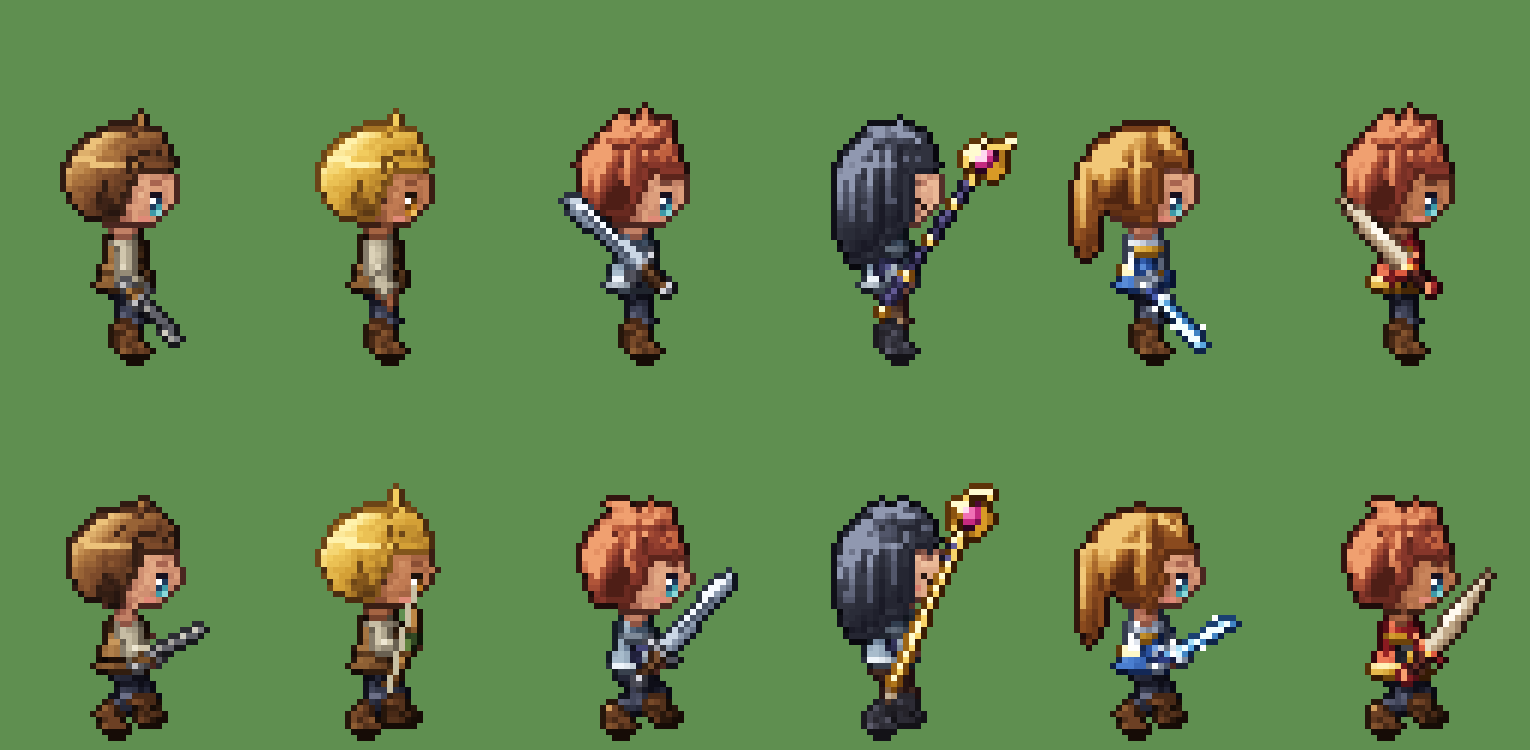
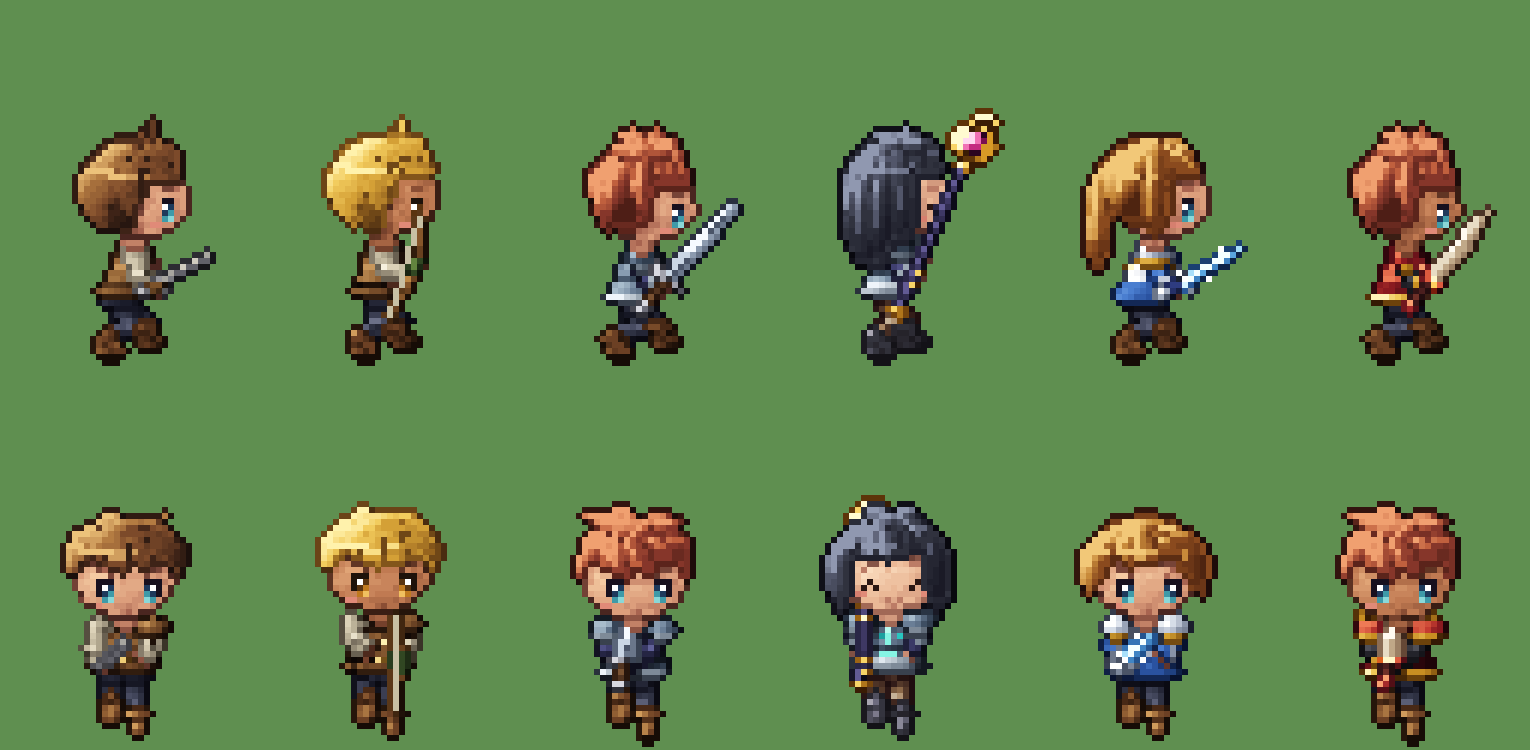
Lean the whole upper body in combat stances
- pose.torsoX(r): torso centre line tilts with the lean (neck forward, hips
  back) so head, shoulders, chest and clothing details move together
- deeper crouch, wider feet and stronger lean per weapon stance

Claude-Session: https://claude.ai/code/session_01JLEecThURYQTCHEQgBW1W6

diff --git a/hd2d-walk-demo/src/character/rig.ts b/hd2d-walk-demo/src/character/rig.ts
@@ -142,6 +142,11 @@ export interface Pose {
   neckUp: number;
   /** 躯干半宽（随朝向变窄） */
   torsoHalf: number;
+  /**
+   * 躯干中线在颈下 r 个单位处的横坐标。前倾时整个上身（颈、肩、胸）一起往前倒，
+   * 髋部略往后坐，躯干是一条斜线而不是直的；画躯干、衣服细节都用它代替 CX。
+   */
+  torsoX(r: number): number;
   armR: Arm;
   armL: Arm;
   /** 手部锚点（= armR.hand / armL.hand），武器按它绘制 */
@@ -222,28 +227,28 @@ interface Stance {
 const STANCES: Record<Hold | 'none', Stance> = {
   // 单手剑：侧身，剑尖斜指前上方，左手护在胸前
   down: {
-    front: 5, back: 4.2, crouch: 2,
-    key: { R: [-6, 22, 6], L: [5.5, 24, 4.5], dir: [0.15, 0.45, 0.88], lean: 0.9, bob: 0, step: 0 },
+    front: 5.6, back: 4.8, crouch: 2.8,
+    key: { R: [-6, 22, 6], L: [5.5, 24, 4.5], dir: [0.15, 0.45, 0.88], lean: 2.4, bob: 0, step: 0 },
   },
   // 双手大剑：最宽最低的马步，双手握剑斜架在身前
   shoulder: {
-    front: 6, back: 5.2, crouch: 2.8,
-    key: { R: [-3, 21, 5], L: [0, 0, 0], dir: [0.1, 0.72, 0.68], lean: 0.6, bob: 0, step: 0 },
+    front: 6.6, back: 5.8, crouch: 3.6,
+    key: { R: [-3, 21, 5], L: [0, 0, 0], dir: [0.1, 0.72, 0.68], lean: 2, bob: 0, step: 0 },
   },
   // 弓：侧身拉开距离，弓压低指向前方，右手搭在弦上
   bow: {
-    front: 4.2, back: 4.8, crouch: 1.5,
-    key: { R: [-4, 24, 2.5], L: [5, 22, 8], dir: [0, 1, 0.3], lean: 0.4, bob: 0, step: 0 },
+    front: 4.6, back: 5.4, crouch: 2,
+    key: { R: [-4, 24, 2.5], L: [5, 22, 8], dir: [0, 1, 0.3], lean: 1.3, bob: 0, step: 0 },
   },
   // 法杖：杖身前倾，左手张开在身前准备施法
   up: {
-    front: 3.8, back: 3.2, crouch: 1.3,
-    key: { R: [-7, 24, 5], L: [6, 25, 7], dir: [0.05, 0.9, 0.42], lean: 0.6, bob: 0, step: 0 },
+    front: 4.2, back: 3.8, crouch: 1.7,
+    key: { R: [-7, 24, 5], L: [6, 25, 7], dir: [0.05, 0.9, 0.42], lean: 1.6, bob: 0, step: 0 },
   },
   // 空手：双拳举在胸前
   none: {
-    front: 4.4, back: 3.6, crouch: 1.7,
-    key: { R: [-4, 26, 6], L: [4.5, 27, 7.5], dir: [0.14, 0.95, 0.1], lean: 0.9, bob: 0, step: 0 },
+    front: 5, back: 4.2, crouch: 2.3,
+    key: { R: [-4, 26, 6], L: [4.5, 27, 7.5], dir: [0.14, 0.95, 0.1], lean: 2.2, bob: 0, step: 0 },
   },
 };
 
@@ -280,14 +285,17 @@ export function makePose(dir: Dir5, frame: number, opts: PoseOptions = {}): Pose
     bob = t === 1 ? 1 : 0; // 呼吸
   }
   // 走路时上身前倾一点；站着时重心偏向一条腿，不是立正
-  const lean = act ? act.lean : walking ? 1 : 0;
+  // 前倾：战斗中以站姿的前倾为底，动作在此基础上再加
+  const lean = act ? act.lean + (anim === 'ready' ? 0 : stance.key.lean * 0.5) : walking ? 1 : 0;
+  /** 颈部、髋部的前后偏移（局部 fwd）：上身整体前倒，屁股往后坐一点 */
+  const neckF = lean * 0.95, hipF = -lean * 0.3;
 
   const proj = (side: number, up: number, fwd: number, tilt = TILT): Joint => {
     const near = fwd * cos - side * sin;
     return { x: CX + side * cos + fwd * sin, y: FOOT_Y - up + near * tilt, near };
   };
 
-  const head = proj(walking || act ? 0 : -0.3, HEAD - bob, lean);
+  const head = proj(walking || act ? 0 : -0.3, HEAD - bob, neckF + lean * 0.25);
 
   /** 局部方向 → 画面角度、缩短比例 */
   const screenDir = (d: V3) => {
@@ -300,7 +308,7 @@ export function makePose(dir: Dir5, frame: number, opts: PoseOptions = {}): Pose
   };
 
   const arm = (sign: -1 | 1, hold: Hold | undefined): Arm => {
-    const shoulder = proj(7.2 * sign, SHOULDER - bob, lean * 0.6, 0.12);
+    const shoulder = proj(7.2 * sign, SHOULDER - bob, neckF * 0.95, 0.12);
     let j: Joint, elbow: Joint;
     // 武器在局部坐标里的指向（side, up, fwd）
     let wd: V3 = [0.14 * sign, 0.95, 0.1];
@@ -315,9 +323,9 @@ export function makePose(dir: Dir5, frame: number, opts: PoseOptions = {}): Pose
       if (sign > 0 && twoHand) {
         p = [act.R[0] + act.dir[0] * TWO_HAND_GAP, act.R[1] + act.dir[1] * TWO_HAND_GAP, act.R[2] + act.dir[2] * TWO_HAND_GAP];
       }
-      j = proj(p[0], p[1] - bob, p[2]);
+      j = proj(p[0], p[1] - bob, p[2] + neckF * 0.7);
       // 肘：肩和手的中点，往外、往下撇一点
-      elbow = proj((7.2 * sign + p[0]) / 2 + 1.4 * sign, (SHOULDER + p[1]) / 2 - 1.6 - bob, (lean * 0.6 + p[2]) / 2 - 0.8);
+      elbow = proj((7.2 * sign + p[0]) / 2 + 1.4 * sign, (SHOULDER + p[1]) / 2 - 1.6 - bob, (neckF * 1.7 + p[2]) / 2 - 0.8);
       if (isBowArm) wd = act.dir.map((v, i) => (i === 0 ? v * sign : v)) as V3;
       else if (sign < 0) {
         wd = act.dir;
@@ -326,8 +334,8 @@ export function makePose(dir: Dir5, frame: number, opts: PoseOptions = {}): Pose
       }
     } else if (act && sign > 0) {
       // 动作帧里不拿武器的左手
-      j = proj(act.L[0], act.L[1] - bob, act.L[2]);
-      elbow = proj((7.2 + act.L[0]) / 2 + 1.4, (SHOULDER + act.L[1]) / 2 - 1.6 - bob, (lean * 0.6 + act.L[2]) / 2 - 0.8);
+      j = proj(act.L[0], act.L[1] - bob, act.L[2] + neckF * 0.7);
+      elbow = proj((7.2 + act.L[0]) / 2 + 1.4, (SHOULDER + act.L[1]) / 2 - 1.6 - bob, (neckF * 1.7 + act.L[2]) / 2 - 0.8);
     } else if (hold === 'up') {
       // 竖握：上臂贴身，前臂抬到身前，手在身侧偏外。
       // 正侧面时杖头往前倾，从脸前面过去，否则竖直的杖会正好穿过脑袋。
@@ -380,7 +388,7 @@ export function makePose(dir: Dir5, frame: number, opts: PoseOptions = {}): Pose
 
   const leg = (id: 'R' | 'L', sign: -1 | 1): Leg => {
     const hipUp = HIP - bob;
-    const hip = proj(2.8 * sign, hipUp, 0, 0);
+    const hip = proj(2.8 * sign, hipUp, hipF, 0);
     // 先求脚的局部坐标（side, up, fwd），再算膝盖
     let fs: number, fu: number, ff: number;
     if (act) {
@@ -396,11 +404,11 @@ export function makePose(dir: Dir5, frame: number, opts: PoseOptions = {}): Pose
     }
     // 膝盖：大腿和小腿一样长，髋到脚的距离不够腿长时膝盖往前顶出去（下蹲、跨步时腿是弯的）
     const LEG = 8.2;
-    const ds = fs - 2.8 * sign, du = fu - hipUp, df = ff;
+    const ds = fs - 2.8 * sign, du = fu - hipUp, df = ff - hipF;
     const dist = Math.hypot(ds, du, df);
     const bend = Math.sqrt(Math.max(0, LEG * LEG - (dist / 2) ** 2));
     // 弯曲方向：大致朝前，后脚的膝盖也朝前（往下压）
-    const knee = proj(2.8 * sign + ds / 2, hipUp + du / 2, df / 2 + bend * 0.9, 0.2);
+    const knee = proj(2.8 * sign + ds / 2, hipUp + du / 2, hipF + df / 2 + bend * 0.9, 0.2);
     return { id, hip, knee, foot: proj(fs, fu, ff) };
   };
   const legR = leg('R', -1), legL = leg('L', 1);
@@ -412,6 +420,10 @@ export function makePose(dir: Dir5, frame: number, opts: PoseOptions = {}): Pose
     neckY: FOOT_Y - NECK + bob,
     neckUp: NECK - bob,
     torsoHalf: 6.5 - 1.9 * Math.abs(sin),
+    torsoX: (r: number) => {
+      const k = Math.max(0, Math.min(1, r / (NECK - HIP)));
+      return CX + (neckF + (hipF - neckF) * k) * sin;
+    },
     armR, armL,
     handR: armR.hand,
     handL: armL.hand,

diff --git a/hd2d-walk-demo/src/items/top/armors.ts b/hd2d-walk-demo/src/items/top/armors.ts
@@ -1,6 +1,5 @@
 import { pal, BASE, DARK, HI, LIGHT, OUTLINE } from '../../pixel/palette';
 import { DARKEN, LIGHTEN } from '../../pixel/Brush';
-import { CX } from '../../character/rig';
 import type { DrawCtx, ItemDef, PartDef } from '../../character/types';
 import { armLayer, armOf, farBias, frontX, sleeveParts, torsoShape } from '../shared';
 
@@ -99,18 +98,18 @@ export const leatherArmor: ItemDef = {
         });
         g.clip = true;
         // 缝线：接缝上方一排亮点
-        for (let u = CX - hw + 1; u < CX + hw - 0.5; u += 1.6) g.dot(u, ny + 6.2, LIGHTEN);
+        for (let u = pose.torsoX(6) - hw + 1; u < pose.torsoX(6) + hw - 0.5; u += 1.6) g.dot(u, ny + 6.2, LIGHTEN);
         if (pose.cos > -0.3) {
           // 斜挎的皮带：左肩到右腰
           c.pal('strap');
           const s = pose.cos;
-          g.fill(CX - hw - 1, ny + 2, CX + hw + 1, ny + 12, (u, v) => {
+          g.fill(pose.torsoX(6) - hw - 1, ny + 2, pose.torsoX(6) + hw + 1, ny + 12, (u, v) => {
             const k = (v - ny - 2.5) / 9;
-            const mid = CX + hw * 0.9 * s * (0.8 - 1.7 * k) + pose.sin * hw * 0.5;
+            const mid = pose.torsoX(6) + hw * 0.9 * s * (0.8 - 1.7 * k) + pose.sin * hw * 0.5;
             return Math.abs(u - mid) < 1.1 ? (u < mid - 0.3 ? LIGHT : BASE) : -1;
           });
           c.pal('metal');
-          const bx = CX + hw * 0.9 * s * (0.8 - 1.7 * 0.35) + pose.sin * hw * 0.5;
+          const bx = pose.torsoX(6) + hw * 0.9 * s * (0.8 - 1.7 * 0.35) + pose.sin * hw * 0.5;
           g.dot(bx, ny + 5.7, HI);
         }
         g.clip = false;
@@ -163,11 +162,11 @@ export const runeArmor: ItemDef = {
           g.dot(fx + 2.6, ny + 5.4, BASE);
           g.line(fx - 1.6, ny + 9.4, fx + 1.6, ny + 9.4, LIGHT);
         } else if (pose.cos < -0.3) {
-          const bx = CX - pose.torsoHalf * 0.4 * pose.sin;
+          const bx = pose.torsoX(5) - pose.torsoHalf * 0.4 * pose.sin;
           g.line(bx - 2.4, ny + 5, bx + 2.4, ny + 5, LIGHT);
           g.dot(bx, ny + 5, HI);
         } else {
-          g.line(CX + 0.6 * pose.sin, ny + 4, CX + 0.6 * pose.sin, ny + 6.6, LIGHT);
+          g.line(pose.torsoX(5) + 0.6 * pose.sin, ny + 4, pose.torsoX(5) + 0.6 * pose.sin, ny + 6.6, LIGHT);
         }
         g.clip = false;
       },
@@ -236,7 +235,7 @@ export const starlightArmor: ItemDef = {
         } else if (pose.cos < -0.3) {
           c.pal('trim');
           g.clip = true;
-          g.line(CX - 2, ny + 4.6, CX + 2, ny + 4.6, LIGHT);
+          g.line(pose.torsoX(5) - 2, ny + 4.6, pose.torsoX(5) + 2, ny + 4.6, LIGHT);
           g.clip = false;
         }
       },
@@ -292,7 +291,7 @@ export const dragonArmor: ItemDef = {
           g.clip = false;
         }
         g.clip = true;
-        g.line(CX - 0.4, ny + 3, CX - 0.4, ny + 3, DARKEN);
+        g.line(pose.torsoX(3) - 0.4, ny + 3, pose.torsoX(3) - 0.4, ny + 3, DARKEN);
         g.clip = false;
       },
     },

diff --git a/hd2d-walk-demo/src/items/top/red_cloak.ts b/hd2d-walk-demo/src/items/top/red_cloak.ts
@@ -1,6 +1,6 @@
 import { pal, ramp, BASE, DARK, HI, LIGHT, OUTLINE } from '../../pixel/palette';
 import { LX, LY, LZ, DARKEN } from '../../pixel/Brush';
-import { CX, FOOT_Y } from '../../character/rig';
+import { FOOT_Y } from '../../character/rig';
 import { Z } from '../../character/layers';
 import type { DrawCtx, ItemDef } from '../../character/types';
 import { frontX, sleeveParts, torsoShape } from '../shared';
@@ -23,7 +23,7 @@ function cape(c: DrawCtx): void {
   const sway = walking ? Math.sin(pose.phase + 1) : 0;
   const hwTop = 6.6 * Math.abs(cos) + 3 * Math.abs(sin) + 1.2;
   const hwBottom = hwTop + 3.8;
-  const cx0 = CX - sin * 3.8;
+  const cx0 = pose.torsoX(3) - sin * 3.8;
   const y0 = pose.neckY - 0.5, y1 = FOOT_Y - 6;
   const folds = 2.2 + Math.abs(cos) * 1.4; // 能看到几道大褶
 
@@ -62,8 +62,9 @@ function mantle(c: DrawCtx): void {
   const ny = pose.neckY;
   const hw = pose.torsoHalf + 2.9;
   const y0 = ny - 2, yb = ny + 4.6;
-  g.fill(CX - hw, y0, CX + hw, yb + 1.4, (u, v) => {
-    const nx = (u - CX) / hw;
+  const mx = pose.torsoX(1);
+  g.fill(mx - hw, y0, mx + hw, yb + 1.4, (u, v) => {
+    const nx = (u - mx) / hw;
     if (Math.abs(nx) > 1) return -1;
     const top = y0 + 2.9 * (1 - Math.sqrt(1 - nx * nx)); // 圆肩
     const bottom = yb + 0.7 * Math.cos(nx * hw * 0.9); // 扇形下缘（频率低一点，低密度下才不会碎成一格一格）
@@ -115,15 +116,15 @@ export const redCloak: ItemDef = {
           r < 8 || r > 9.8 ? -1 : r < 8.6 ? LIGHT : r > 9.3 ? OUTLINE : g.t(lam, -0.25));
         g.clip = true;
         c.pal('main');
-        g.fold(CX - hw + 1, ny + 4.6, CX - hw + 3.6, ny + 7.2);
-        g.fold(CX + hw - 1, ny + 4.2, CX + hw - 3.2, ny + 6.8);
+        g.fold(pose.torsoX(5) - hw + 1, ny + 4.6, pose.torsoX(5) - hw + 3.6, ny + 7.2);
+        g.fold(pose.torsoX(5) + hw - 1, ny + 4.2, pose.torsoX(5) + hw - 3.2, ny + 6.8);
         if (pose.cos > 0.3) {
           const fx = frontX(c);
           c.pal('trim');
           if (g.S >= 0.8) g.line(fx, ny + 4.6, fx, ny + 7.6, BASE); // 前襟的金线：像素太少时只是噪点，不画
           g.rect(fx - 1.2, ny + 7.8, 2.4, 2.4, (u, v) => (u < fx - 0.4 || v < ny + 8.5 ? HI : DARK)); // 带扣
         } else {
-          g.line(CX, ny + 4, CX, ny + 7.6, DARKEN);
+          g.line(pose.torsoX(5), ny + 4, pose.torsoX(5), ny + 7.6, DARKEN);
         }
         g.clip = false;
       },

diff --git a/hd2d-walk-demo/src/items/top/traveler_jacket.ts b/hd2d-walk-demo/src/items/top/traveler_jacket.ts
@@ -1,6 +1,5 @@
 import { pal, ramp, BASE, DARK, HI, LIGHT, OUTLINE } from '../../pixel/palette';
 import { DARKEN, LIGHTEN } from '../../pixel/Brush';
-import { CX } from '../../character/rig';
 import type { ItemDef } from '../../character/types';
 import { frontX, sleeveParts, torsoShape } from '../shared';
 
@@ -44,8 +43,8 @@ export const travelerJacket: ItemDef = {
         c.pal('main');
         g.clip = true;
         // 衣褶：从腋下往腰间收
-        g.fold(CX - hw + 1, ny + 4.8, CX - hw + 3.8, ny + 7.4);
-        g.fold(CX + hw - 1, ny + 4.4, CX + hw - 3.4, ny + 7);
+        g.fold(pose.torsoX(6) - hw + 1, ny + 4.8, pose.torsoX(6) - hw + 3.8, ny + 7.4);
+        g.fold(pose.torsoX(6) + hw - 1, ny + 4.4, pose.torsoX(6) + hw - 3.4, ny + 7);
         
 
         if (pose.cos > 0.3) {
@@ -62,15 +61,15 @@ export const travelerJacket: ItemDef = {
           }
         } else if (pose.cos < -0.3) {
           // 背面：后中缝 + 腰间的半腰带
-          const bx = CX - hw * 0.4 * pose.sin;
+          const bx = pose.torsoX(5) - hw * 0.4 * pose.sin;
           g.line(bx, ny + 3.5, bx, ny + 7, DARKEN);
           g.rect(bx - 3.4, ny + 7.4, 6.8, 1.6, (_u, v) => (v < ny + 8.1 ? LIGHT : DARK));
           c.pal('metal');
           g.dot(bx - 3, ny + 7.8, HI);
           g.dot(bx + 3, ny + 7.8, LIGHT);
         } else {
-          g.line(CX - 0.6, ny + 5, CX - 0.6, ny + hem - 1, DARKEN); // 侧缝
-          g.line(CX + 0.6, ny + 8.6, CX + 3, ny + 8.6, LIGHTEN); // 口袋
+          g.line(pose.torsoX(7) - 0.6, ny + 5, pose.torsoX(7) - 0.6, ny + hem - 1, DARKEN); // 侧缝
+          g.line(pose.torsoX(8) + 0.6, ny + 8.6, pose.torsoX(8) + 3, ny + 8.6, LIGHTEN); // 口袋
         }
         g.clip = false;
       },

diff --git a/hd2d-walk-demo/src/items/scarf/navy_scarf.ts b/hd2d-walk-demo/src/items/scarf/navy_scarf.ts
@@ -1,6 +1,5 @@
 import { pal, ramp, HI, LIGHT } from '../../pixel/palette';
 import { LX, LY, LZ } from '../../pixel/Brush';
-import { CX } from '../../character/rig';
 import type { ItemDef } from '../../character/types';
 
 /**
@@ -34,7 +33,7 @@ export const navyScarf: ItemDef = {
         const { g, pose } = c;
         // 侧面看围巾只比脖子粗一圈，不能按正面宽度画，否则会前后各凸出一截
         const hw = pose.torsoHalf + 2.2 - 1.5 * Math.abs(pose.sin);
-        const sx = CX + pose.sin * 0.5;
+        const sx = pose.torsoX(0) + pose.sin * 0.5;
         const yc = pose.neckY + 2.1, hh = 2.6; // 颈圈上缘低于下巴，圆下巴不会被切平
         c.pal('main');
         g.grit = 0.26;
@@ -49,7 +48,7 @@ export const navyScarf: ItemDef = {
 
         if (pose.cos > 0.3) {
           // 正面能看到围巾结和垂下的一小段，末端两道浅色条纹
-          const kx = CX + (hw - 3.8) * (0.3 + pose.sin * 0.6);
+          const kx = pose.torsoX(0) + (hw - 3.8) * (0.3 + pose.sin * 0.6);
           g.capsule(kx + 0.2, yc + 2.8, kx + 0.8, yc + 9.4, 1.5, 1.8, (lam, _o, t) =>
             (t > 0.68 && t < 0.78) || (t > 0.88 && t < 0.97) ? (lam > 0.2 ? HI : LIGHT) : g.t(lam));
           g.ellipse(kx, yc + 2.2, 2.1, 2, (lam) => g.t(lam, 0.08));

diff --git a/hd2d-walk-demo/src/items/bottom/trousers.ts b/hd2d-walk-demo/src/items/bottom/trousers.ts
@@ -1,6 +1,5 @@
 import { pal, ramp } from '../../pixel/palette';
 import { LX, LZ, DARKEN } from '../../pixel/Brush';
-import { CX } from '../../character/rig';
 import type { ItemDef, PartDef } from '../../character/types';
 import { farBias } from '../shared';
 
@@ -45,15 +44,16 @@ export const trousers: ItemDef = {
       draw: (c) => {
         const { g, pose } = c;
         const hw = pose.torsoHalf - 0.2, y = pose.legs[0].hip.y;
+        const hx = (pose.legs[0].hip.x + pose.legs[1].hip.x) / 2;
         c.pal('main');
-        g.fill(CX - hw, y - 4.5, CX + hw, y + 3, (u, v) => {
-          const nx = (u - CX) / hw;
+        g.fill(hx - hw, y - 4.5, hx + hw, y + 3, (u, v) => {
+          const nx = (u - hx) / hw;
           if (Math.abs(nx) > 1 || v < y - 4.5) return -1;
           if (v > y + 1 + 1.4 * (1 - Math.abs(nx))) return -1; // 下缘中间收成裆部
           return g.t(nx * LX + Math.sqrt(1 - nx * nx) * LZ, -0.15); // 整个在上衣的阴影里
         });
         if (Math.abs(pose.sin) < 0.9) {
-          const sx = CX + pose.sin * 2.2;
+          const sx = hx + pose.sin * 2.2;
           g.clip = true;
           g.line(sx, y - 1, sx, y + 2.2, DARKEN); // 裆部的分缝
           g.clip = false;

diff --git a/hd2d-walk-demo/src/items/shared.ts b/hd2d-walk-demo/src/items/shared.ts
@@ -51,13 +51,14 @@ export function torsoShape(
 ): void {
   const { g, pose } = c;
   const ny = pose.neckY, flare = opts.flare ?? 1, hw0 = pose.torsoHalf + (opts.pad ?? 0);
-  g.fill(CX - hw0 - flare - 1, ny, CX + hw0 + flare + 1, ny + rows, (u, v) => {
+  const shift = Math.abs(pose.torsoX(0) - pose.torsoX(rows));
+  g.fill(CX - hw0 - flare - 1 - shift, ny, CX + hw0 + flare + 1 + shift, ny + rows, (u, v) => {
     const r = v - ny;
     if (r < 0 || r > rows) return -1;
     let hw = hw0;
     if (r < 2.4) hw -= (2.4 - r) * (2.4 - r) * 0.35;
     if (r > rows - 7) hw += (flare * (r - (rows - 7))) / 7;
-    const nx = (u - CX) / hw;
+    const nx = (u - pose.torsoX(r)) / hw;
     if (Math.abs(nx) > 1) return -1;
     return shade(nx * LX + Math.sqrt(1 - nx * nx) * LZ + 0.05, nx, r, u, v);
   });
@@ -65,7 +66,7 @@ export function torsoShape(
 
 /** 能看到正面时，门襟 / 领口中线所在的横坐标 */
 export function frontX(c: DrawCtx): number {
-  return CX + c.pose.torsoHalf * 0.72 * c.pose.sin;
+  return c.pose.torsoX(5) + c.pose.torsoHalf * 0.72 * c.pose.sin;
 }
 
 /**
